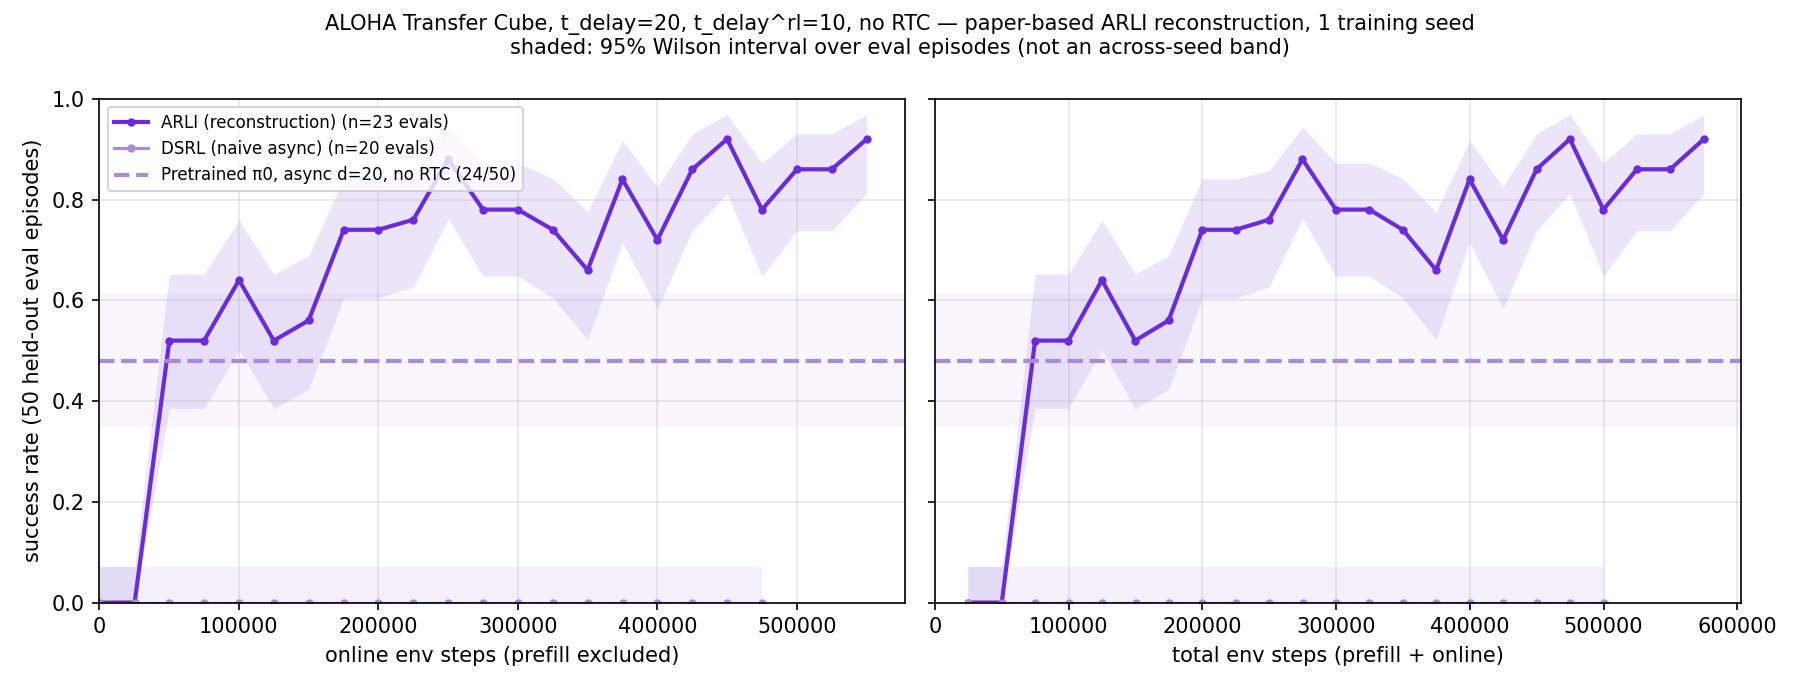
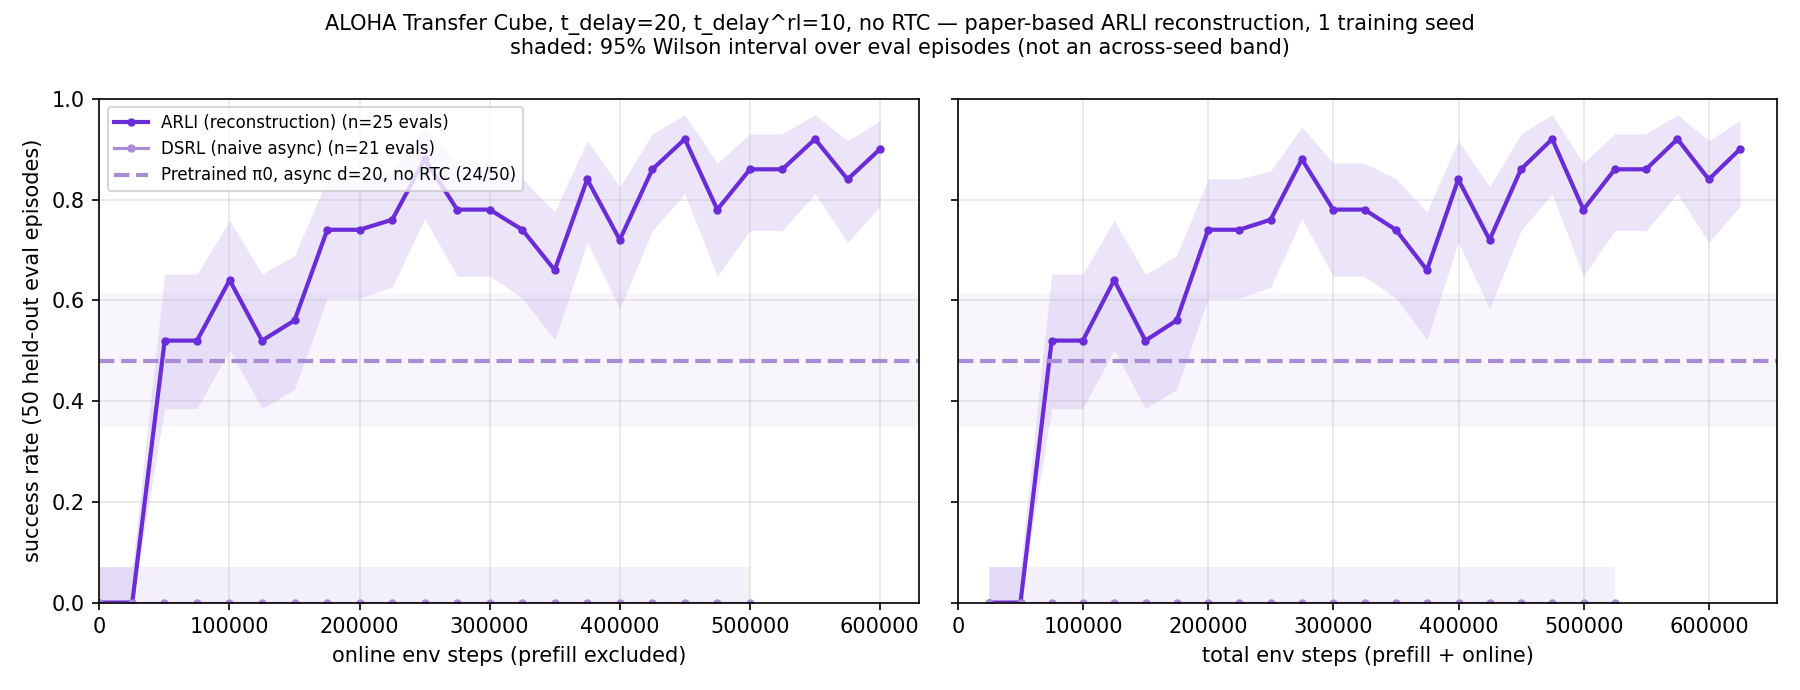
STATUS: R2 ARLI seed 0 complete, S1 seed 0 launched, Groups 1-2 queued, g37 renderer incident

diff --git a/STATUS.md b/STATUS.md
@@ -1,6 +1,6 @@
 # STATUS
 
-_Last updated 2026-10-27 23:30 EDT._ All numbers below are measured; nothing is digitised from the paper.
+_Last updated 2026-10-28 03:25 EDT._ All numbers below are measured; nothing is digitised from the paper.
 
 ## Stage summary
 
@@ -8,9 +8,11 @@ _Last updated 2026-10-27 23:30 EDT._ All numbers below are measured; nothing is 
 |---|---|---|
 | R0 source/timing audit | done | DECISIONS.md; no author ARLI code (paper-based reconstruction); `tests/test_schedule.py` passes; trace in `results/r1/trace_seed10000000.json` |
 | R1 frozen baseline + smoke | done | `results/r1/` (see below) |
-| R2 Figure 6 pilot (seed 0) | **running** | job table below; `python scripts/progress.py` |
+| R2 Figure 6 pilot (seed 0) | ARLI **complete** (45/50 at 600k); DSRL running (524k, 0/50 so far) | job table below; `python scripts/progress.py` |
 | S0 steering implementation | implemented, smoke-tested | `src/arli/steering.py`; CPU test `tests/test_rl_cpu.py`; GPU smoke in `results/r1/smoke_summary.json` |
-| S1 continuation (A–D) | waiting for the R2 ARLI checkpoint | configs `configs/s1_{A,B,C,D}_seed0.yaml` |
+| S1 continuation (A–D), seed 0 | **running** from `r2_arli_seed0/ckpt/agent_0600124.msgpack`; +0 evals A 47/50, C 25/50 | configs `configs/s1_{A,B,C,D}_seed0.yaml` |
+| Group 1: seed-1 replication (R2 ARLI/DSRL + S1 A–D) | queued (BR200 gpu, nice 500) | `configs/r2_{arli,dsrl}_seed1_std030.yaml`, `configs/s1_*_seed1.yaml` |
+| Group 2: prefill variance-0.3 control (R2 ARLI/DSRL, seed 0) | queued (BR200 gpu, nice 500) | `configs/r2_{arli,dsrl}_seed0_var030.yaml` |
 
 ## R1 results (job 8755240/8755266 checks, 8755293 smoke + baselines)
 
@@ -28,20 +30,33 @@ _Last updated 2026-10-27 23:30 EDT._ All numbers below are measured; nothing is 
 prefill 73 episodes / 24,740 env steps / 1,007 latent transitions (32 successful episodes); online ≈ 4.7 s rollout
 + 4.2 s updates (10.6 ms per gradient step) per 400 env steps; 50-episode eval ≈ 230 s → ≈ 5.5 GPU-h per run.
 
-## Jobs
+## Incident: Quartz node g37 renderer abort (2026-10-28 02:51)
 
-| Job | Cluster / partition | What | State |
-|---|---|---|---|
-| 8755240 | BR200 gpu-debug | R1 check (attribute bug) | FAILED, fixed |
-| 8755266 | BR200 gpu-debug | R1 check | COMPLETED |
-| 8755293 | BR200 gpu-debug | smoke + frozen baselines | COMPLETED |
-| 8755398/8755399, 8755409/8755410 | BR200 gpu | 12 h R2 jobs | cancelled unstarted (queue est. start 2026-10-29 23:45) |
-| 8755407 | BR200 gpu-debug (A100) | R2 ARLI seg 1: 0 → 80k | done (clean wall-budget exit; sacct shows FAILED = exit 3) |
-| 8755408 | BR200 gpu-debug (A100) | R2 DSRL seg 1: 0 → 87k | done (same) |
-| 8755751 | BR200 gpu-debug (A100) | R2 ARLI seg 2 | running |
-| 8756469/70/71 | BR200 gpu-debug (A100) | R2 ARLI seg 3–5 (afterany chain) | pending |
-| 12499954 | Quartz h100-debug (H100) | R2 DSRL seg 2 from 87.2k | running |
-| 12499956/57 | Quartz h100-debug | R2 DSRL seg 3–4 (chain) | pending |
+DSRL seed 0 segments 12501064 / 12501065 / 12501875 and debug job 12501915 aborted (SIGABRT, core dump) inside
+MuJoCo EGL `physics.render` 1–2 episodes after resuming at 524,000 online steps — all on Quartz g37, which had run
+segment 12500083 cleanly. The identical state copied to `/N/scratch/jindjia/arli/debug_runs/` ran cleanly on a BR200
+A100 (job 8757635: passed the crash point and the 525k eval). Not the run state, not the RL code; a first guess
+(EGL device id) was tested and rejected. The real run state was never modified by the failed segments (state is only
+written at evaluations / clean exits). DSRL seed 0 continues on BR200 (job 8757652).
+
+## Jobs (current)
+
+| Job | Cluster / partition | Run(s) | Dependency | State |
+|---|---|---|---|---|
+| 8757650 | BR200 gpu-debug, 2×A100 | S1 seed 0 branches A + C, segment 1 | — | running |
+| 8757651 | BR200 gpu-debug, 2×A100 | S1 seed 0 branches B + D, segment 1 | — | running |
+| 8757670 | BR200 gpu-debug, 2×A100 | S1 seed 0 A + C, segment 2 | afterany:8757650 | queued |
+| 8757652 | BR200 gpu-debug, A100 | R2 DSRL seed 0, resume from 524k | — | queued (Resources) |
+| 8757628 | BR200 gpu, 12 h, nice 500 | r2_arli_seed1_std030 | — | queued (Priority) |
+| 8757630 | BR200 gpu, 12 h, nice 500 | r2_dsrl_seed1_std030 | — | queued (Priority) |
+| 8757631 | BR200 gpu, 12 h, nice 500 | r2_arli_seed0_var030 | — | queued (Priority) |
+| 8757632 | BR200 gpu, 12 h, nice 500 | r2_dsrl_seed0_var030 | — | queued (Priority) |
+| 8757633 | BR200 gpu, 2×A100, 6 h, nice 500 | s1_A_seed1 + s1_C_seed1 | afterok:8757628 | queued (Dependency) |
+| 8757634 | BR200 gpu, 2×A100, 6 h, nice 500 | s1_B_seed1 + s1_D_seed1 | afterok:8757628 | queued (Dependency) |
+
+Completed R2 seed-0 ARLI segments: 8755407, 8755751, 8756469, 8756470, 8756471, 8756523 (BR200 gpu-debug; each
+exits 3 = checkpointed wall budget, shown as FAILED by sacct), 8756898 (found the run complete).
+DSRL seed 0 segments: 8755408 (BR200), 12499954/56/57, 12500083 (Quartz H100, clean), 12501064/65, 12501875 (g37 abort).
 
 Hardware note: DSRL seed 0 runs its first segment on A100 and later segments on H100 (each segment's host is in
 `launch_*.json`).  Every segment resumes the exact replay/agent/RNG state; numerics differ only at bf16 level.
